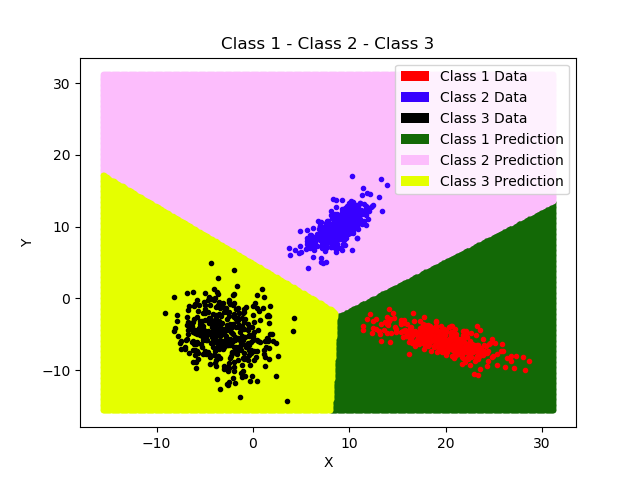
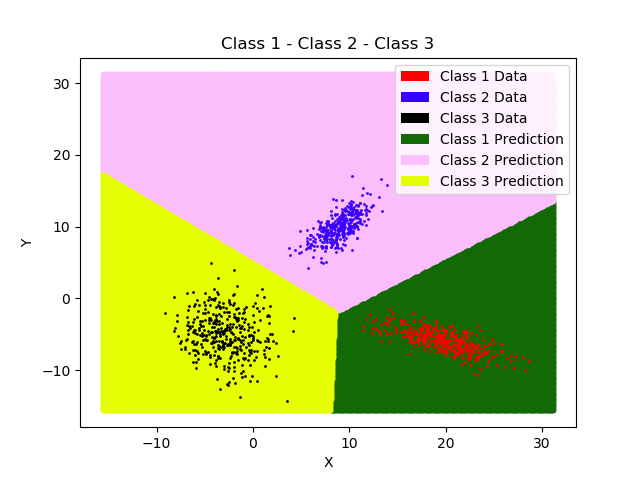
Plots complete for data set 1

diff --git a/assignments/assign-1/lsd.py b/assignments/assign-1/lsd.py
@@ -87,8 +87,8 @@ def plot(covMat, classname):
 		if lc==1:
 			ax.plot(yellowX, yellowY, c=colors[1],marker=".",  linestyle="None", label="Class 2 Prediction")
 			ax.plot(blueX, blueY, c=colors[2],marker=".",  linestyle="None", label="Class 3 Prediction")
-			ax.plot(data[1,:,0], data[1,:,1], c=colors[4], marker=".",  linestyle="None", label="Class 2 Data")
-			ax.plot(data[2,:,0], data[2,:,1], c=colors[5], marker=".",  linestyle="None", label="Class 3 Data")
+			ax.plot(data[1,:,0], data[1,:,1], c=colors[4], marker=".",  linestyle="None", label="Class 2 Data", ms="2")
+			ax.plot(data[2,:,0], data[2,:,1], c=colors[5], marker=".",  linestyle="None", label="Class 3 Data", ms="2")
 			class_colours = [colors[4], colors[5], colors[1], colors[2]]
 			classes = ["Class 2 Data", "Class 3 Data", "Class 2 Prediction", "Class 3 Prediction"]
 			plotname = "23"+plotname
@@ -96,16 +96,16 @@ def plot(covMat, classname):
 		elif lc==2:
 			ax.plot(greenX, greenY, c=colors[0],marker=".", linestyle="None", label="Class 1 Prediction")
 			ax.plot(blueX, blueY, c=colors[2],marker=".", linestyle="None", label="Class 3 Prediction")
-			ax.plot(data[0,:,0], data[0, :, 1], c=colors[3], marker=".", linestyle="None", label="Class 1 Data")
-			ax.plot(data[2,:,0],data[2,:,1], c=colors[5], marker=".", linestyle="None", label="Class 3 Data")
+			ax.plot(data[0,:,0], data[0, :, 1], c=colors[3], marker=".", linestyle="None", label="Class 1 Data", ms="2")
+			ax.plot(data[2,:,0],data[2,:,1], c=colors[5], marker=".", linestyle="None", label="Class 3 Data", ms="2")
 			class_colours = [colors[5], colors[3], colors[0], colors[2]]
 			classes = ["Class 1 Data", "Class 3 Data", "Class 1 Prediction", "Class 3 Prediction"]
 			plotname = "13" + plotname
 		elif lc==3:
 			ax.plot(greenX, greenY, c = colors[0],marker=".",  linestyle="None", label="Class 1 Prediction")
 			ax.plot(yellowX, yellowY, c = colors[1],marker=".",  linestyle="None", label="Class 2 Prediction")
-			ax.plot(data[0,:,0],data[0,:,1], c=colors[3], marker=".",  linestyle="None", label="Class 1 Data")
-			ax.plot(data[1,:,0],data[1,:,1], c = colors[4], marker=".",  linestyle="None", label="Class 2 Data")
+			ax.plot(data[0,:,0],data[0,:,1], c=colors[3], marker=".",  linestyle="None", label="Class 1 Data", ms="2")
+			ax.plot(data[1,:,0],data[1,:,1], c = colors[4], marker=".",  linestyle="None", label="Class 2 Data", ms="2")
 			class_colours = [colors[3], colors[4], colors[0], colors[1]]
 			classes = ["Class 1 Data", "Class 2 Data", "Class 1 Prediction", "Class 2 Prediction"]
 			plotname = "12" + plotname
@@ -113,9 +113,9 @@ def plot(covMat, classname):
 			ax.plot(greenX, greenY, c = colors[0],marker=".",  linestyle="None", label="Class 1 Prediction")
 			ax.plot(yellowX, yellowY, c = colors[1],marker=".",  linestyle="None", label="Class 2 Prediction")
 			ax.plot(blueX, blueY, c=colors[2],marker=".",  linestyle="None", label="Class 3 Prediction")
-			ax.plot(data[0,:,0],data[0,:,1], c = colors[3], marker=".",  linestyle="None", label="Class 1 Data")
-			ax.plot(data[1,:,0],data[1,:,1], c = colors[4], marker=".",  linestyle="None", label="Class 2 Data")
-			ax.plot(data[2,:,0],data[2,:,1], c = colors[5], marker=".",  linestyle="None", label="Class 3 Data")
+			ax.plot(data[0,:,0],data[0,:,1], c = colors[3], marker=".",  linestyle="None", label="Class 1 Data", ms="2")
+			ax.plot(data[1,:,0],data[1,:,1], c = colors[4], marker=".",  linestyle="None", label="Class 2 Data", ms="2")
+			ax.plot(data[2,:,0],data[2,:,1], c = colors[5], marker=".",  linestyle="None", label="Class 3 Data", ms="2")
 			class_colours = [colors[3], colors[4], colors[5], colors[0], colors[1], colors[2]]
 			classes = ["Class 1 Data", "Class 2 Data", "Class 3 Data", "Class 1 Prediction", "Class 2 Prediction", "Class 3 Prediction"]
 			plotname = "123" + plotname
